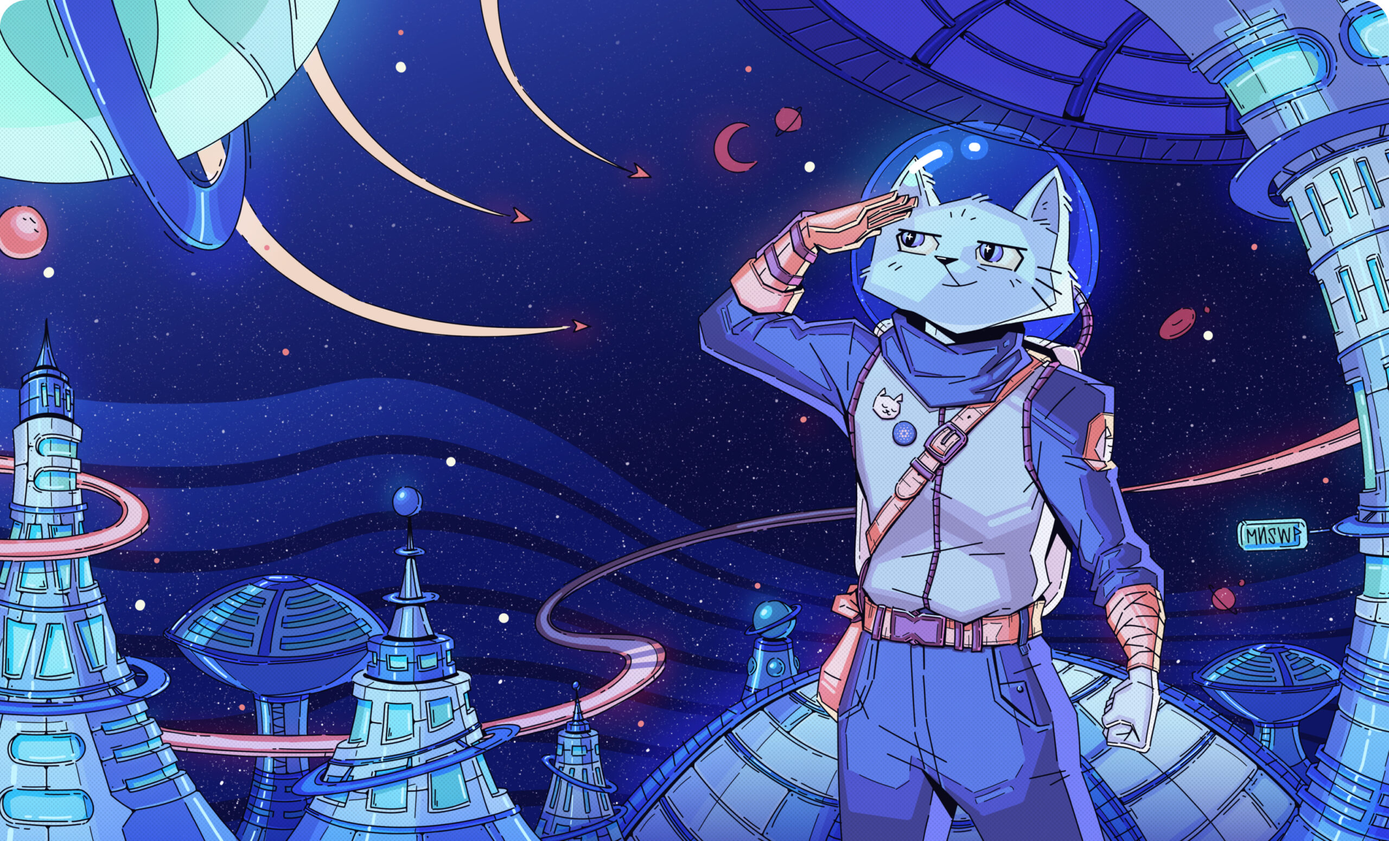
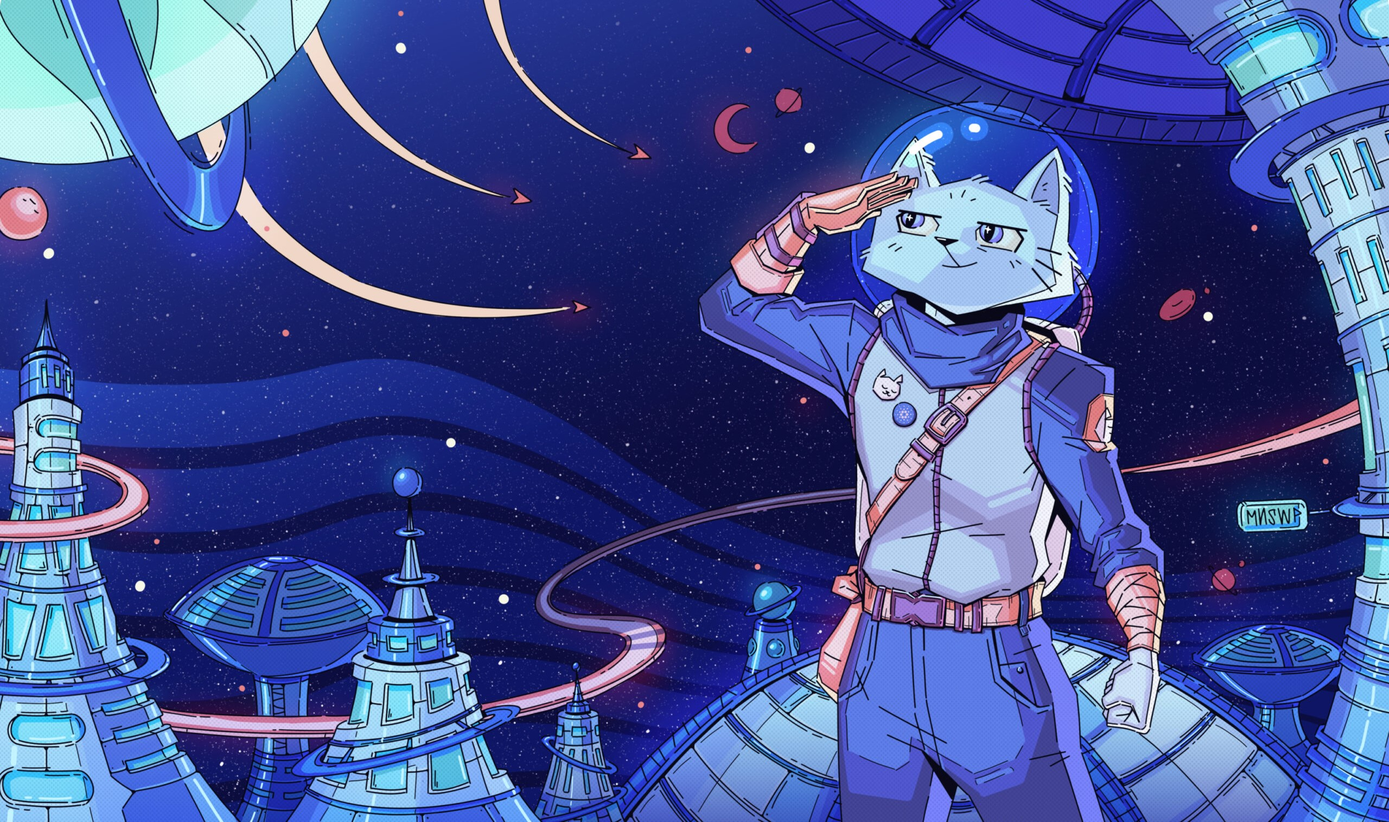
update background, url

diff --git a/src/pages/department/detailModal/index.tsx b/src/pages/department/detailModal/index.tsx
@@ -130,6 +130,7 @@ export default function DepartmentDetailModal({
           validateMessages={validateMessages()}
           onFinish={submitHandler}
           disabled={actionModal === ACTION_TYPE.VIEW_DETAIL}
+          initialValues={{ listPosition: [''] }}
         >
           <Col span={24}>
             <BasicInput
@@ -152,7 +153,18 @@ export default function DepartmentDetailModal({
           </Col>
 
           {actionModal !== ACTION_TYPE.VIEW_DETAIL && (
-            <Form.List name="listPosition">
+            <Form.List
+              name="listPosition"
+              // rules={[
+              //   {
+              //     validator: async (_, names) => {
+              //       if (!names || names.length < 1) {
+              //         return Promise.reject(new Error('At least 1 position'));
+              //       }
+              //     },
+              //   },
+              // ]}
+            >
               {(fields, { add, remove }, { errors }) => {
                 return (
                   <>
@@ -175,19 +187,31 @@ export default function DepartmentDetailModal({
                             className={styles.input}
                             allowClear
                             placeholder="Enter position name"
+                            rules={
+                              fields.length === 1
+                                ? [
+                                    {
+                                      required: true,
+                                      message: 'Create at least 1 positioin',
+                                    },
+                                  ]
+                                : undefined
+                            }
                           />
                         </Col>
-                        <span
-                          onClick={() => remove(field.name)}
-                          className={styles['icon--delete']}
-                        >
-                          <SvgIcon
-                            icon="approve-waitting"
-                            size={24}
-                            color="#3c6d73"
-                            className={styles['cursor-pointer']}
-                          />
-                        </span>
+                        {fields.length > 1 && (
+                          <span
+                            onClick={() => remove(field.name)}
+                            className={styles['icon--delete']}
+                          >
+                            <SvgIcon
+                              icon="approve-waitting"
+                              size={24}
+                              color="#3c6d73"
+                              className={styles['cursor-pointer']}
+                            />
+                          </span>
+                        )}
                       </Row>
                     ))}
                     <div className={styles.btn__add}>

diff --git a/src/pages/timeCheck/subordinateTimeCheck/index.tsx b/src/pages/timeCheck/subordinateTimeCheck/index.tsx
@@ -7,11 +7,7 @@ import { AllTimeCheckHeader } from 'constants/header';
 import { TIME_CHECK } from 'constants/services';
 import { useTimeCheckList } from 'hooks/useTimeCheck';
 import { HeaderTableFields } from 'models/common';
-import {
-  TimeCheckListQuery,
-  TimeCheckListSortFields,
-  TimeCheckModel,
-} from 'models/timeCheck';
+import { TimeCheckListQuery, TimeCheckModel } from 'models/timeCheck';
 import moment from 'moment-timezone';
 import { useEffect, useState, useRef } from 'react';
 import { useNavigate, useSearchParams } from 'react-router-dom';
@@ -186,16 +182,6 @@ export default function SubordinateTimeCheck() {
   ) => {
     let sort = stateQuery.sort;
     let dir = stateQuery.dir;
-
-    //! delete this after integrate api
-    if (sorter.order) {
-      const sortField = sorter.field as TimeCheckListSortFields;
-      const sortDirections = sorter.order === 'ascend' ? 'asc' : 'desc';
-
-      sort = `${sortField}`;
-      dir = sortDirections;
-    }
-
     // * set changing of pagination to state query
     setStateQuery((prev: TimeCheckListQuery) => ({
       ...prev,
@@ -211,7 +197,7 @@ export default function SubordinateTimeCheck() {
         timeCheckIdRef.current = record.id;
         navigate(
           {
-            pathname: `/time-attendance/subordinate/detail/${record.id}`,
+            pathname: `/time-check/subordinate/detail/${record.id}`,
             search: `startDate=${stateQuery.startDate}&endDate=${stateQuery.endDate}`,
           },
           { replace: true },

diff --git a/src/pages/login/loginRedirect/index.tsx b/src/pages/login/loginRedirect/index.tsx
@@ -1,5 +1,4 @@
 import Loading from 'components/loading';
-import { ACCESS_TOKEN } from 'constants/common';
 import { useEffect } from 'react';
 import { useNavigate, useSearchParams } from 'react-router-dom';
 
@@ -8,10 +7,7 @@ export default function LoginRedirect() {
   const navigate = useNavigate();
   const accessToken = search.get('token');
   useEffect(() => {
-    if (accessToken) {
-      localStorage.setItem(ACCESS_TOKEN, accessToken);
-      navigate('/');
-    }
+    navigate('/');
   }, [accessToken]);
   return <Loading />;
 }

diff --git a/src/pages/timeCheck/components/extraHeader/index.tsx b/src/pages/timeCheck/components/extraHeader/index.tsx
@@ -81,8 +81,8 @@ export default function ExtraTableTimeCheck({
 
   const handleBackButton = () => {
     const type = location.pathname.split('/')[2];
-    if (type === 'subordinate') navigate('/time-attendance/subordinate');
-    if (type === 'all') navigate('/time-attendance/all');
+    if (type === 'subordinate') navigate('/time-check/subordinate');
+    if (type === 'all') navigate('/time-check/all');
   };
 
   const handleTitle = () => {

diff --git a/src/pages/homePage/index.module.less b/src/pages/homePage/index.module.less
@@ -5,12 +5,12 @@
   .content {
     height: 100%;
     border-radius: 8px;
-    background-image: url('/assets/img/background_light.png'),
+    background-image: url('/assets/img/background_3.jpg'),
       linear-gradient(
         275deg,
         rgba(135, 188, 255, 1) 23%,
         rgba(254, 202, 232, 0.9444152661064426) 100%
       );
-    background-size: contain;
+    background-size: cover;
   }
 }

diff --git a/src/pages/timeCheck/allTimeCheck/index.tsx b/src/pages/timeCheck/allTimeCheck/index.tsx
@@ -208,7 +208,7 @@ export default function AllTimeCheck() {
       onClick: () => {
         timeCheckIdRef.current = record.id;
         navigate({
-          pathname: `/time-attendance/all/detail/${record.id}`,
+          pathname: `/time-check/all/detail/${record.id}`,
           search: `startDate=${stateQuery.startDate}&endDate=${stateQuery.endDate}`,
         });
       },
